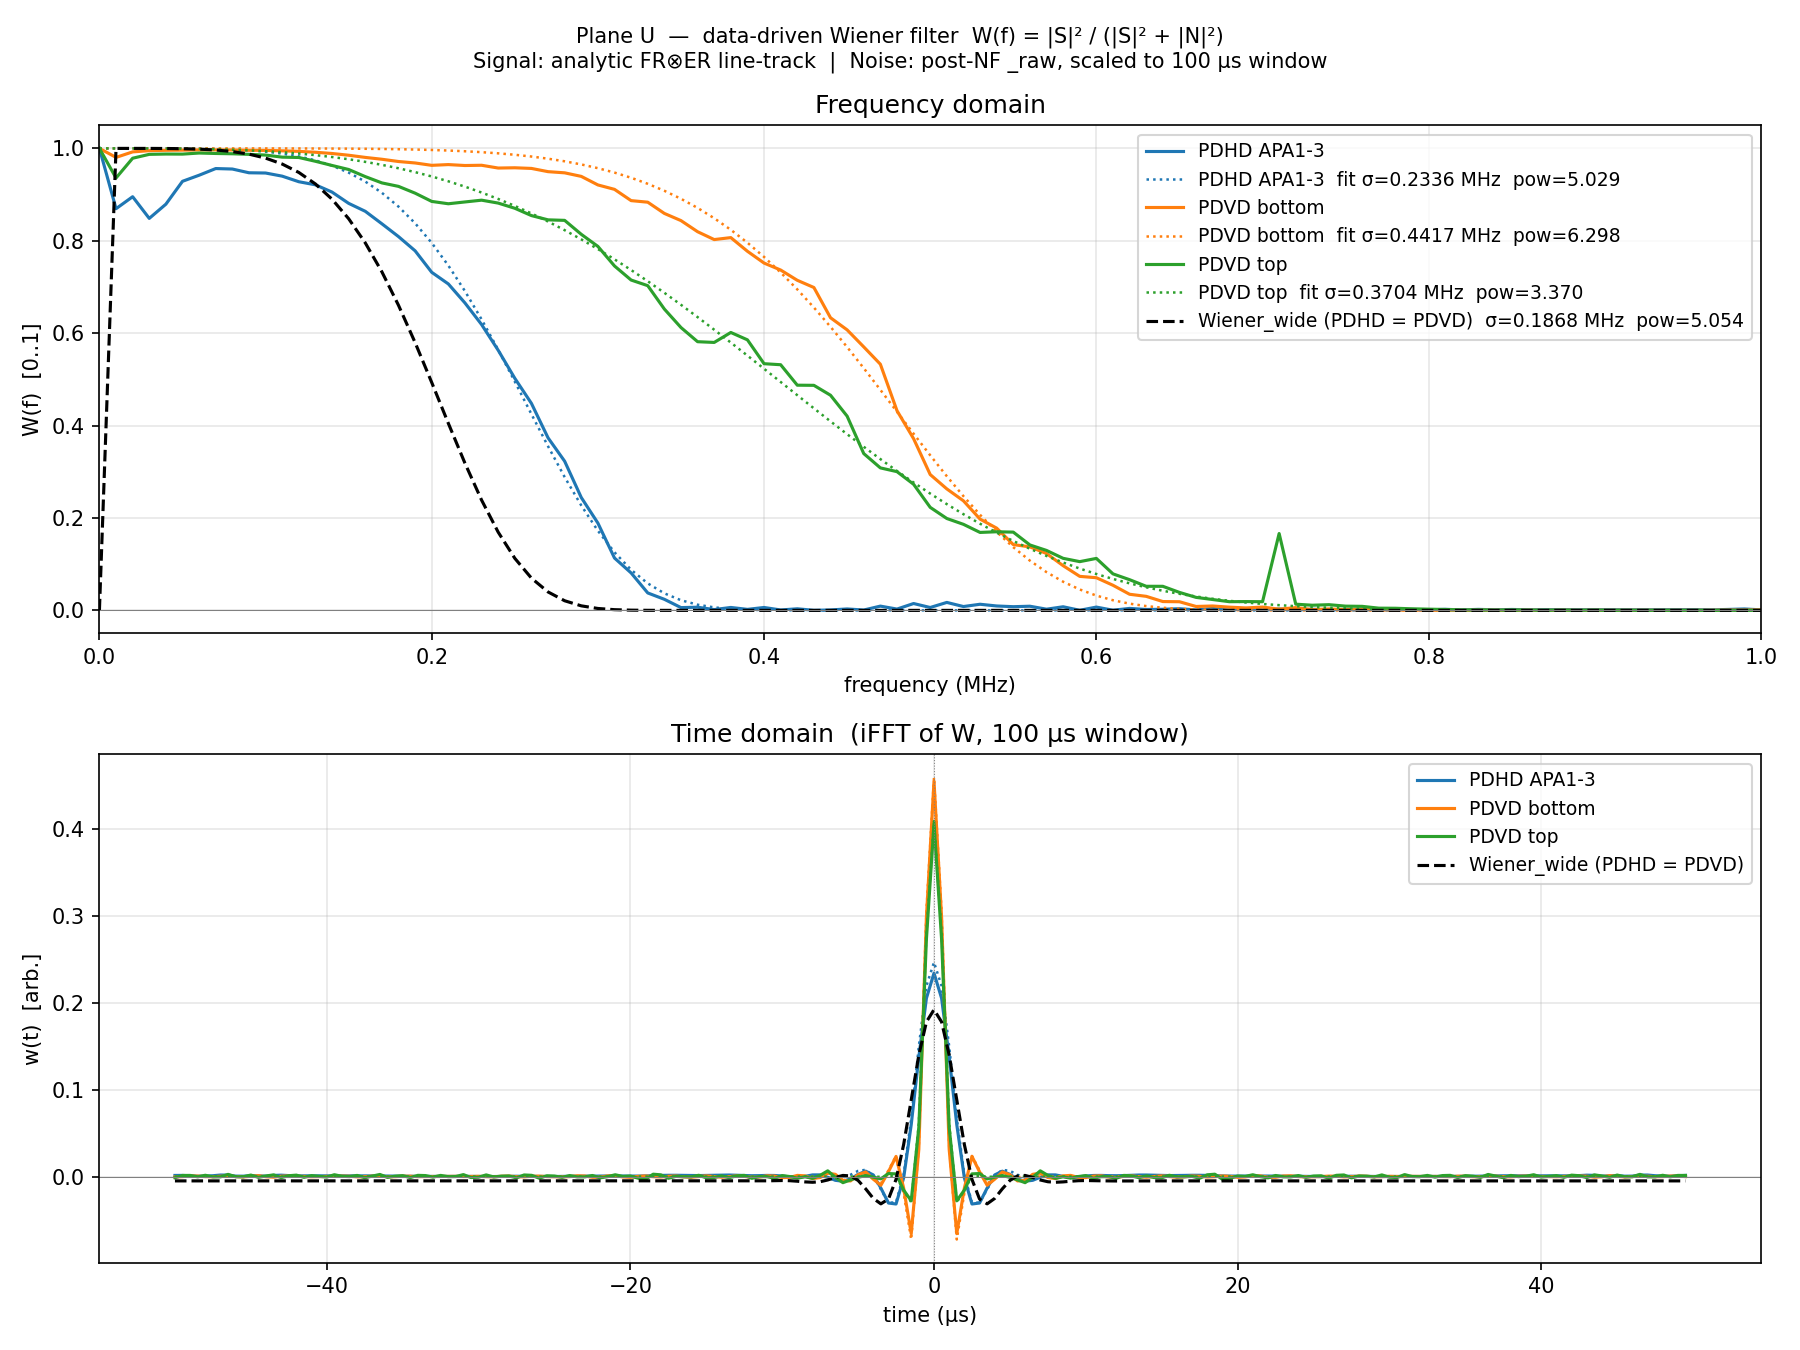
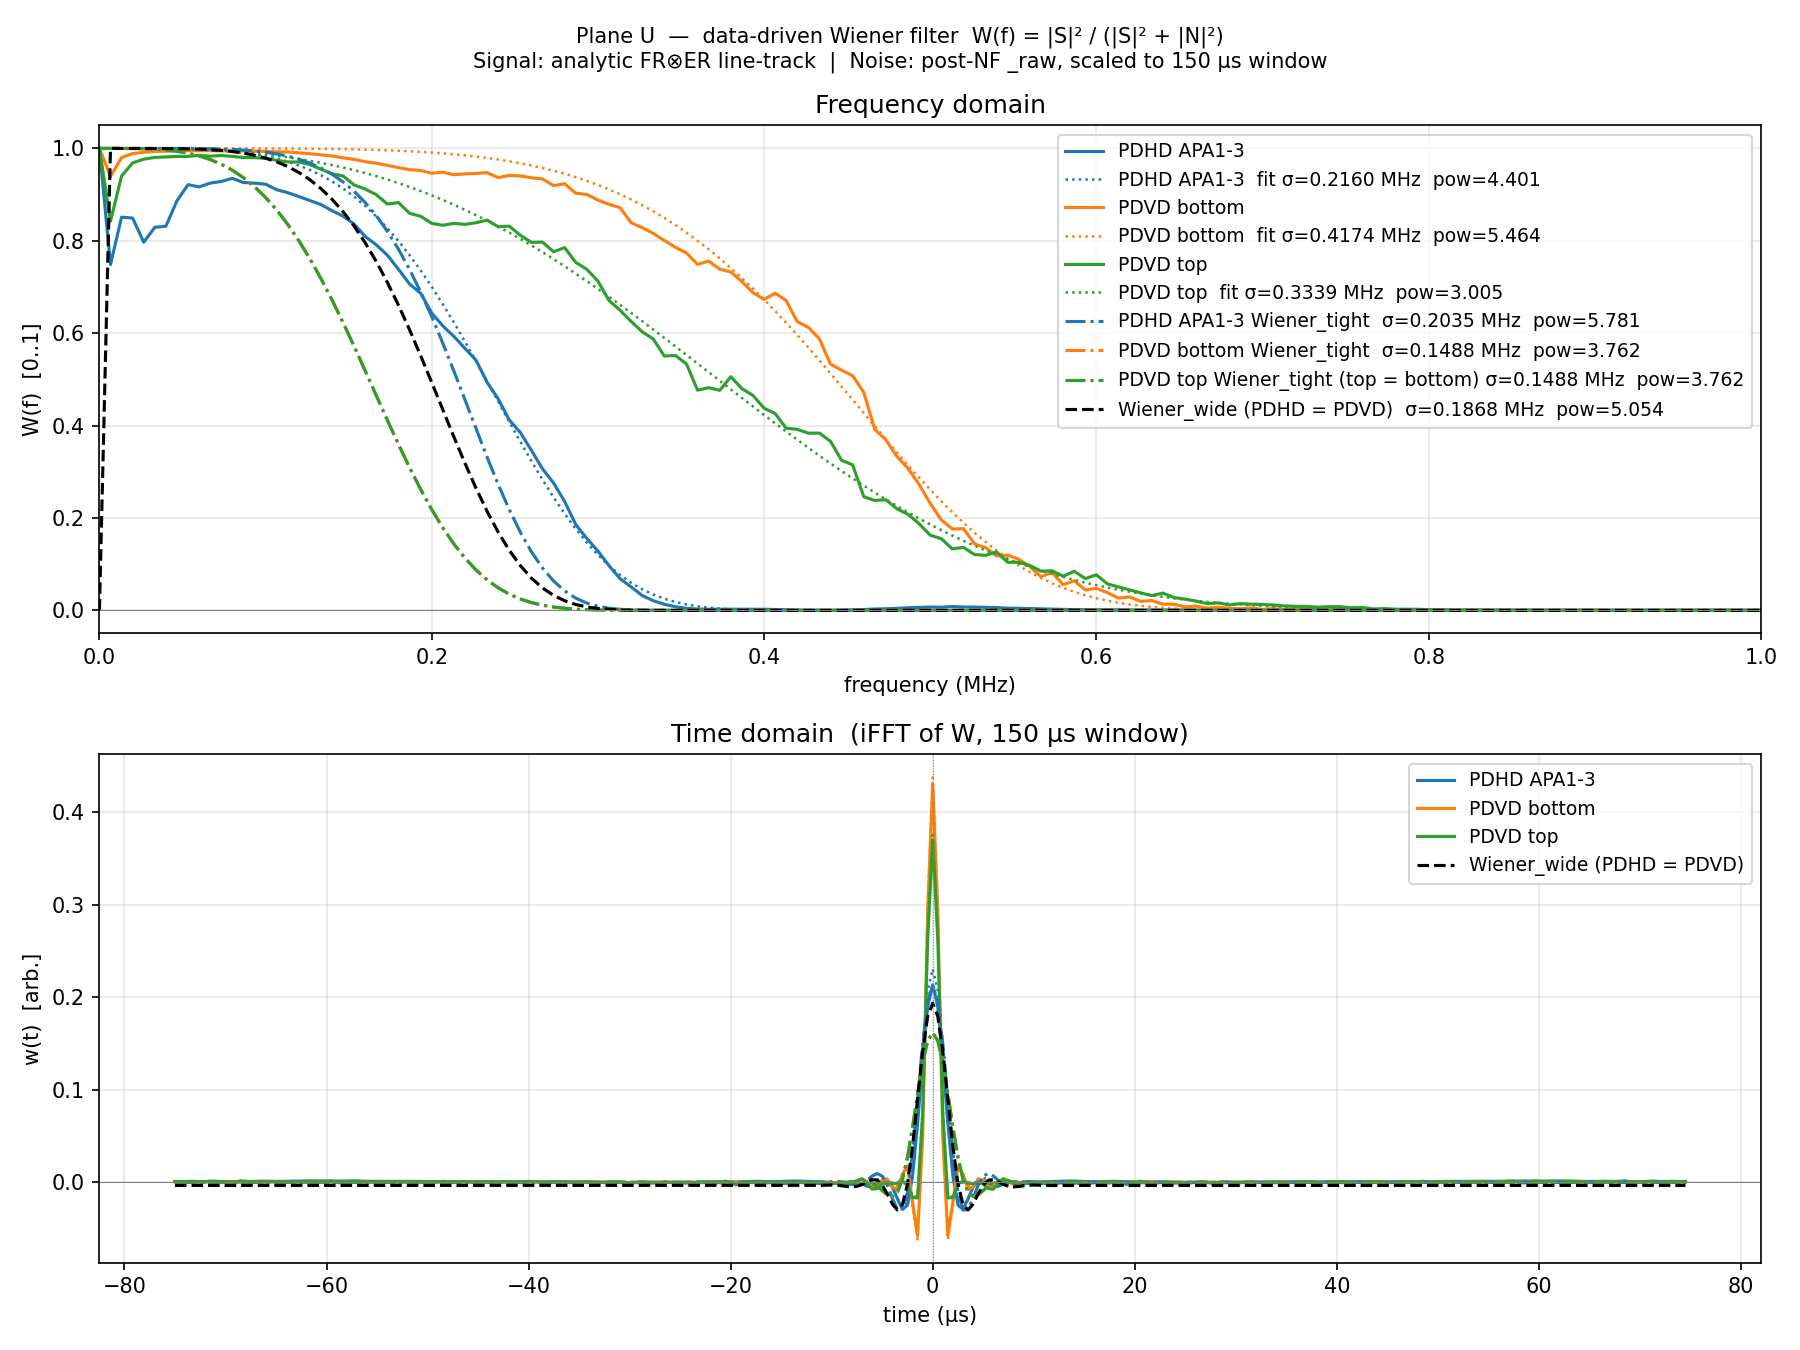
pdvd/sp_plot/wiener_filter_construct: 150 µs window + prod tight/wide overlays
- Noise window extended from 100 µs to 150 µs (N_SHORT 200→300).  Larger
  window adds 50% more noise power, tightening the optimal Wiener σ by ~5-10%.
  As a side effect the PDVD signal window now covers nearly the full 160 µs
  FR response (was clipping ~30 µs of induction tails at 100 µs).

- Add production Wiener_tight overlay per detector (dash-dot, same colour):
    PDHD APA1   U σ=0.2035 pow=5.78 / V σ=0.1602 pow=3.55
    PDVD bot/top U σ=0.1488 pow=3.76 / V σ=0.1597 pow=4.36  (top=bottom)

- Production Wiener_wide (shared PDHD=PDVD) already overlaid as black dashed;
  label unchanged.  Together tight+wide brackets show where the data-driven
  and fitted filters sit relative to existing production tuning.

diff --git a/pdvd/sp_plot/wiener_filter_construct.py b/pdvd/sp_plot/wiener_filter_construct.py
@@ -41,8 +41,9 @@ Outputs (same directory as this script):
   wiener_filter_V.png
 
 Each PNG has:
-  Top panel    — W(f) vs f (0..1 MHz), all three detectors + PDHD Wiener_wide overlay.
-  Bottom panel — w(t) = iFFT[W(f)] vs t (±50 µs), all three detectors + Wiener_wide iFFT.
+  Top panel    — W(f) vs f (0..1 MHz), all three detectors + fitted parametric +
+                 production Wiener_tight per detector (dash-dot) + shared Wiener_wide (dashed).
+  Bottom panel — same overlays in the time domain (iFFT).
 """
 
 import os, sys
@@ -61,9 +62,9 @@ from track_response_compare import (
     DETECTORS as TR_DETECTORS, load_detector, compute_plane_wave,
 )
 
-T_WIN_US = 100.0
+T_WIN_US = 150.0
 TICK_US  = 0.5
-N_SHORT  = int(T_WIN_US / TICK_US)   # 200
+N_SHORT  = int(T_WIN_US / TICK_US)   # 300
 
 SIG_FACTOR = 4.0
 PAD_BINS   = 8
@@ -89,6 +90,26 @@ DETECTORS = [d for d in TR_DETECTORS if d['label'] in NOISE_ROOT]
 WIENER_WIDE = {
     0: {'sigma': 0.186765, 'power': 5.05429},   # U
     1: {'sigma': 0.1936,   'power': 5.77422},   # V
+}
+
+# Production Wiener_tight parameters per detector per plane.
+# PDHD: APA1-specific values (matching the noise data source, apa1.root).
+#   pdhd/sp-filters.jsonnet lines 58-65 (Wiener_tight_*_APA1)
+# PDVD: _b and _t share identical parameters.
+#   protodunevd/sp-filters.jsonnet lines 97-100 (Wiener_tight_*_{b,t})
+WIENER_TIGHT = {
+    'PDHD APA1-3': {
+        0: {'sigma': 0.203451,  'power': 5.78093},   # Wiener_tight_U_APA1
+        1: {'sigma': 0.160191,  'power': 3.54835},   # Wiener_tight_V_APA1
+    },
+    'PDVD bottom': {
+        0: {'sigma': 0.148788,  'power': 3.76194},   # Wiener_tight_U_b
+        1: {'sigma': 0.1596568, 'power': 4.36125},   # Wiener_tight_V_b
+    },
+    'PDVD top': {
+        0: {'sigma': 0.148788,  'power': 3.76194},   # Wiener_tight_U_t (= _b)
+        1: {'sigma': 0.1596568, 'power': 4.36125},   # Wiener_tight_V_t (= _b)
+    },
 }
 
 
@@ -274,12 +295,31 @@ def make_plot(plane_label, plane_id, results, outpath):
                          label=r['label'] + lbl_fit)
             axes[1].plot(r['t'],       h_fit_t, color=r['color'], lw=1.2, ls=':')
 
-    # Overlay analytic PDHD Wiener_wide (identical to PDVD wide).
     f_ref = results[0]['f_short']
-    H_wide = wiener_wide_analytic(f_ref, plane_id)
+    t_ref = results[0]['t']
+
+    # Overlay production Wiener_tight per detector (dash-dot, same colour).
+    # PDVD top and bottom share identical tight parameters; their lines overlap.
+    seen_tight = set()
+    for r in results:
+        tp = WIENER_TIGHT.get(r['label'], {}).get(plane_id)
+        if tp is None:
+            continue
+        key = (tp['sigma'], tp['power'])
+        H_tight   = _wiener_form(f_ref, tp['sigma'], tp['power'])
+        h_tight_t = np.fft.fftshift(np.fft.irfft(H_tight, n=N_SHORT))
+        suffix    = '(top = bottom)' if key in seen_tight else ''
+        lbl_tight = (f"{r['label']} Wiener_tight {suffix} "
+                     f"σ={tp['sigma']:.4f} MHz  pow={tp['power']:.3f}")
+        axes[0].plot(f_ref,   H_tight,   color=r['color'], lw=1.5, ls='-.',
+                     label=lbl_tight)
+        axes[1].plot(t_ref,   h_tight_t, color=r['color'], lw=1.5, ls='-.')
+        seen_tight.add(key)
+
+    # Overlay analytic Wiener_wide (identical for PDHD and PDVD — single line).
+    H_wide   = wiener_wide_analytic(f_ref, plane_id)
     h_wide_t = np.fft.fftshift(np.fft.irfft(H_wide, n=N_SHORT))
-    t_ref    = results[0]['t']
-    p = WIENER_WIDE[plane_id]
+    p        = WIENER_WIDE[plane_id]
     wide_lbl = (f'Wiener_wide (PDHD = PDVD)  '
                 f'σ={p["sigma"]:.4f} MHz  pow={p["power"]:.3f}')
     axes[0].plot(f_ref,   H_wide,   color='k', lw=1.5, ls='--', label=wide_lbl)
